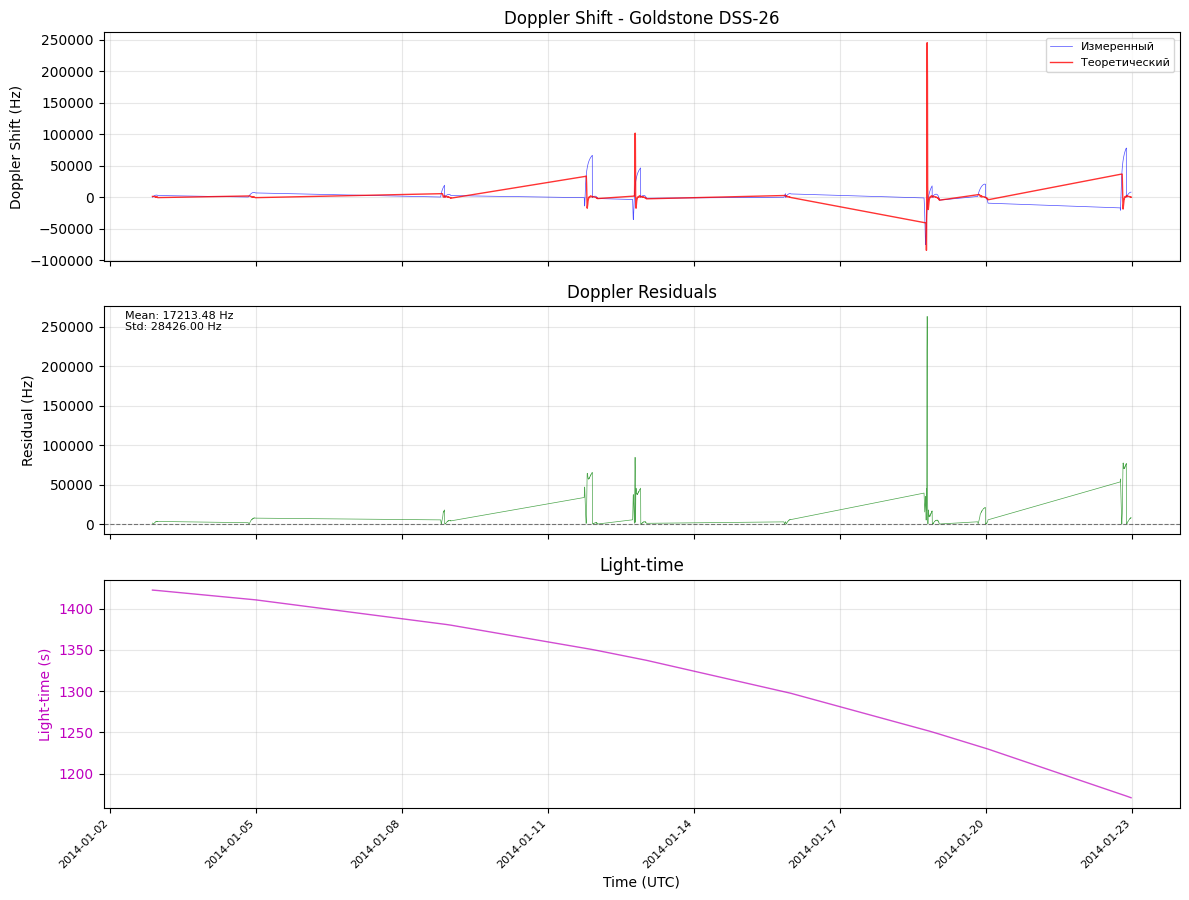
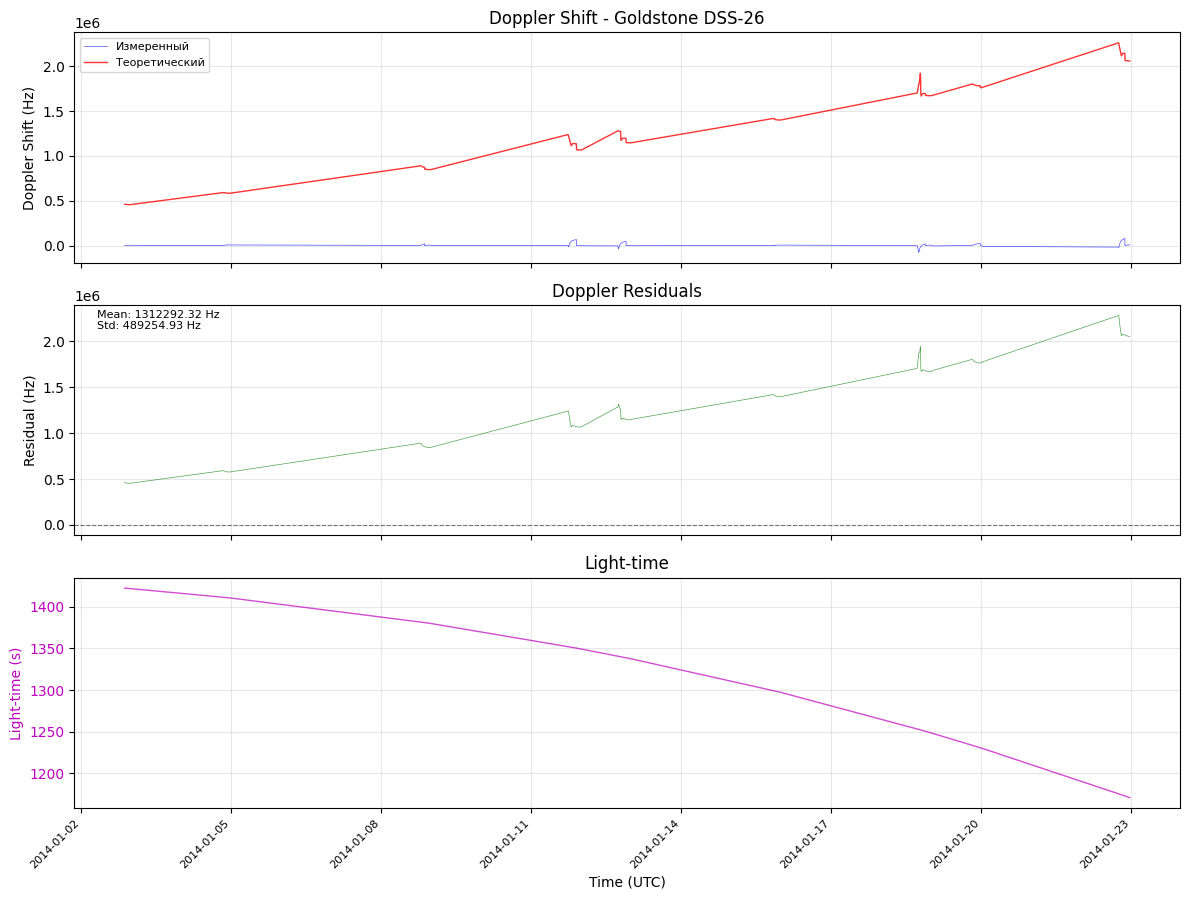
first tryes

diff --git a/lt_tw_doppler.py b/lt_tw_doppler.py
@@ -201,7 +201,8 @@ def compute_two_way_doppler_ramped(t_receive_utc, Tc, station_id, uplink_band, d
     integral_fT_t3 = integrate_ramped_frequency(t3_start, t3_end, ramp_table, station_id, row_data)
     avg_fT_t3 = integral_fT_t3 / (t3_end - t3_start)
 
-    term1 = (M2R / Tc) * integral_fT_t3
+    #term1 = (M2R / Tc) * integral_fT_t3
+    term1 = M2R*row_data['reference_frequency_hz']
     term2 = (M2 / Tc) * integral_fT_t1
     
     F_theory = term1 - term2
